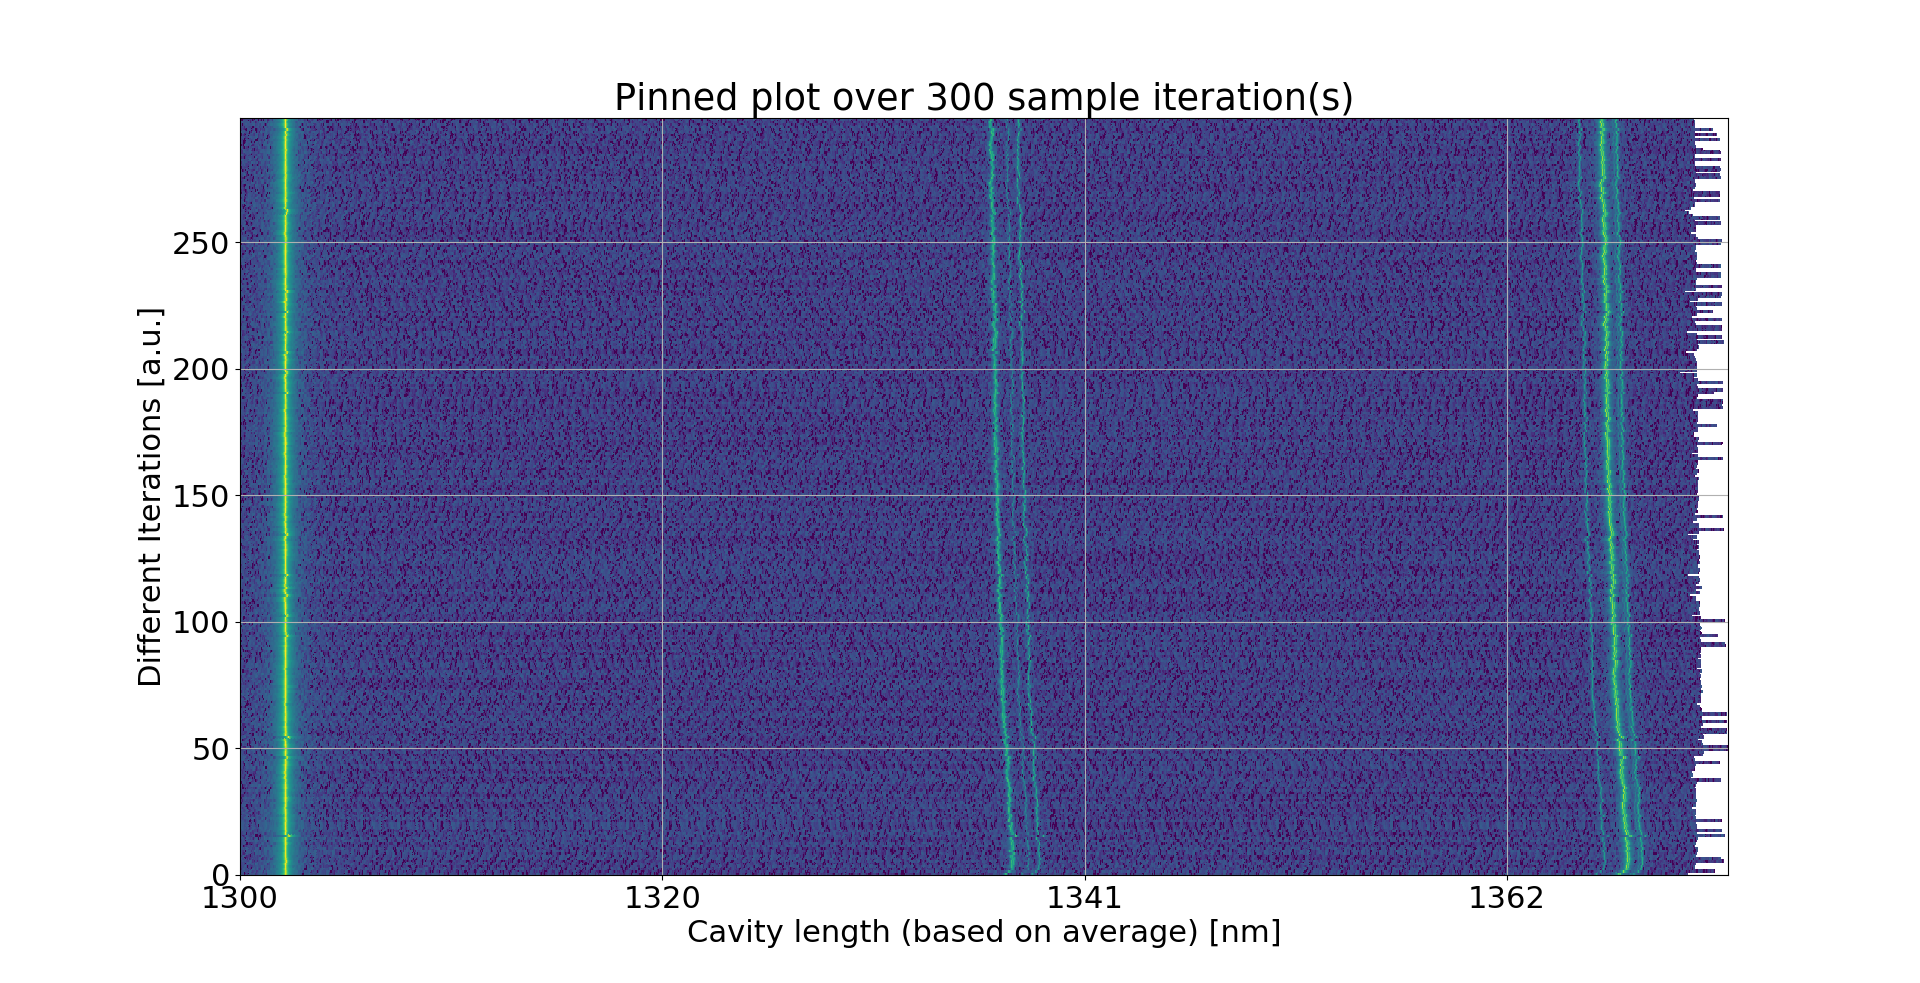
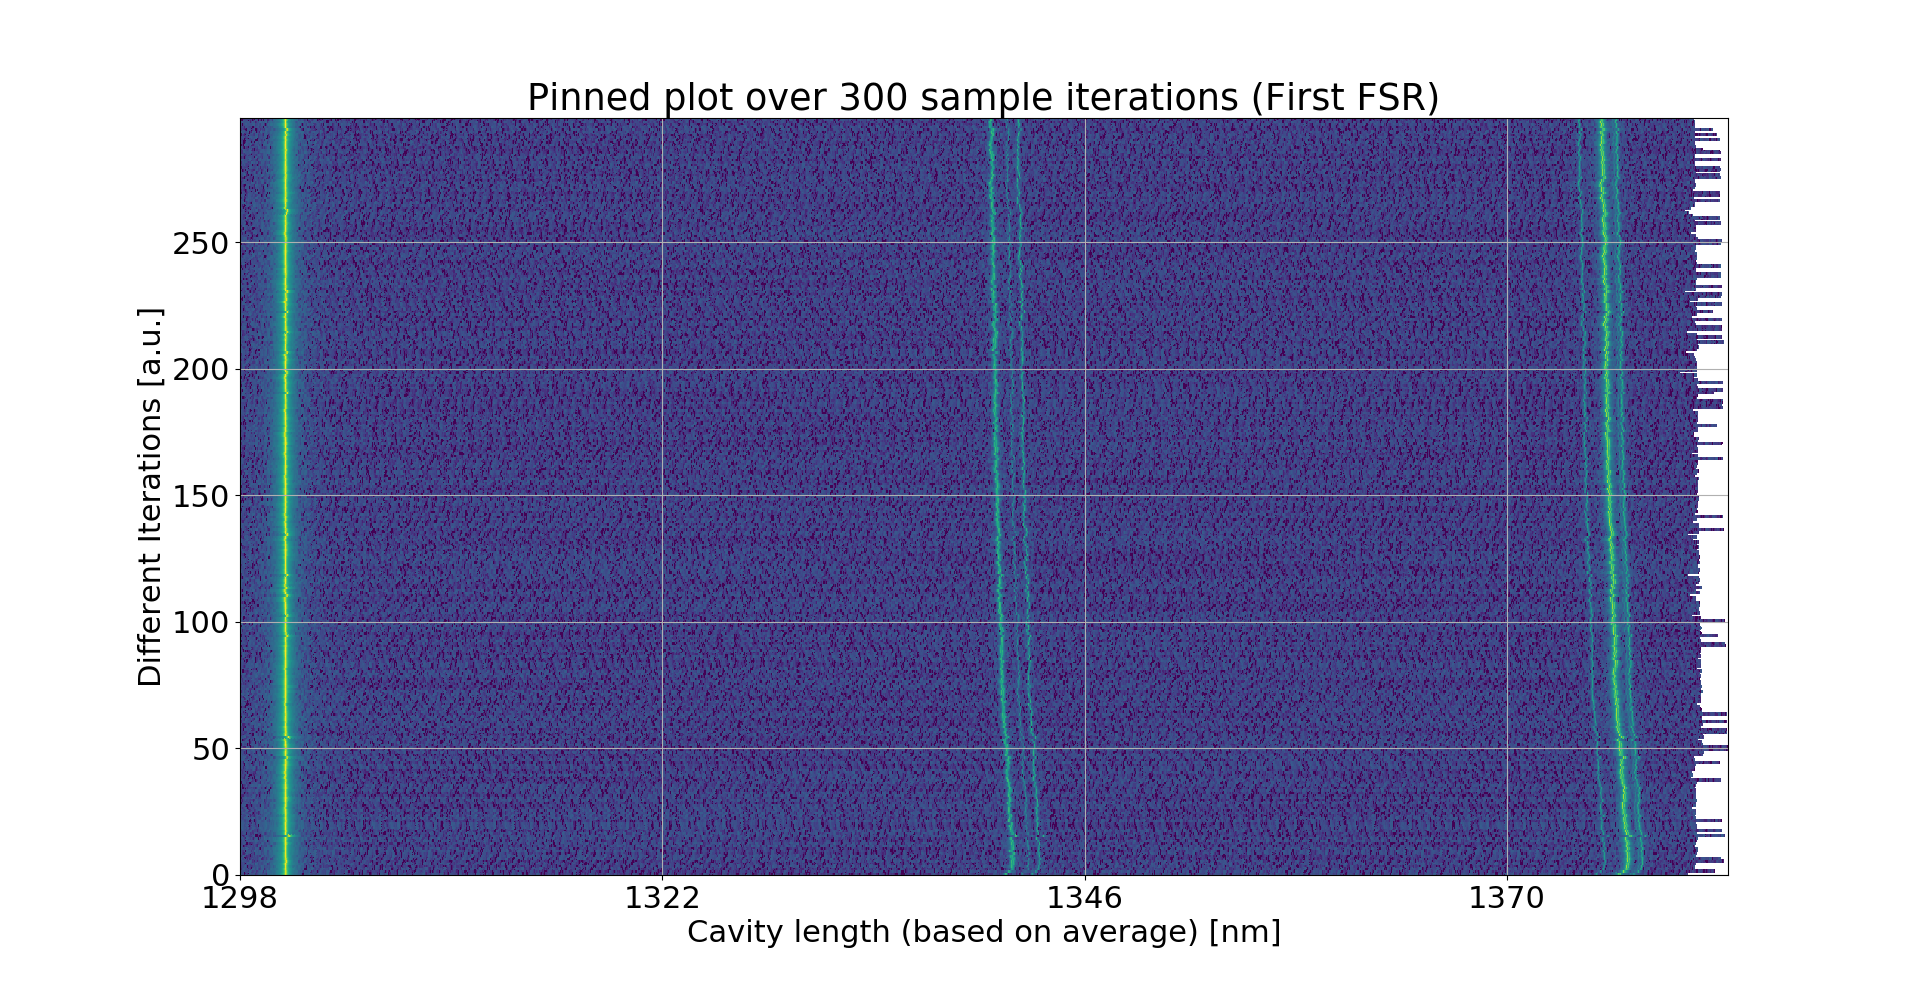
Updated top view color plot Added side view color plot Updated peak alignment

Changed region(s): [[0.2812, 0.061, 0.75, 0.1221], [0.7812, 0.885, 0.8125, 0.9156], [0.125, 0.885, 0.1562, 0.9156]]

diff --git a/src/plot_iteration_mode_color.py b/src/plot_iteration_mode_color.py
@@ -18,8 +18,15 @@ def pad_to_dense(nested_array: List[np.ndarray]) -> Tuple[np.ndarray, Tuple[int,
     return result, (max_width, len(result))
 
 
-def pad_to_pinned(nested_array: List[np.ndarray], slice_array: List[Tuple[int, int]], pin_array: List[int]) -> Tuple[np.ndarray, Tuple[int, int]]:
+def pad_to_pinned(nested_array: List[np.ndarray], dictionary: Dict[Tuple[int, int, int], Tuple[List[float], List[int]]], key: Tuple[int, int, int]) -> Tuple[np.ndarray, Tuple[int, int]]:
     """Returns padded array and shape"""
+    value_array = np.asarray(dictionary[key][0])  # List[float]
+    data_array = np.asarray(dictionary[key][1])  # List[int]
+    min_data_offset = np.min(data_array)
+    pre_skip = min_data_offset - data_array
+    # Align front of arrays
+    # nested_array = [_array[pre_skip[i]:] for i, _array in enumerate(nested_array)]
+
     return pad_to_dense(nested_array=nested_array)
 
 
@@ -29,7 +36,7 @@ def pad_slice(original: Tuple[int, int], additional: Tuple[int, int]) -> Tuple[i
 
 
 def store_peak_data(dictionary: Dict[Tuple[int, int, int], Tuple[List[float], List[int]]], cluster_array: List[LabeledPeakCluster], data_class: SyncMeasData) -> Dict[Tuple[int, int, int], Tuple[List[float], List[int]]]:
-    """Returns dictionary in format: Dict[Tuple[long, trans, index], Tuple[List[pos_value], List[pos_index]]"""
+    """Returns dictionary in format: Dict[Tuple[long, trans, index], Tuple[List[pos_value], List[pos_index]]]"""
     for cluster in cluster_array:
         for k, peak in enumerate(cluster):
             key = (cluster.get_longitudinal_mode_id, cluster.get_transverse_mode_id, k)
@@ -41,20 +48,108 @@ def store_peak_data(dictionary: Dict[Tuple[int, int, int], Tuple[List[float], Li
     return dictionary
 
 
-def plot_pinned_focus(collection_iterator: Iterable[LabeledPeakCollection], pin: Tuple[int, int], focus: List[Tuple[int, int]]):  #  -> plt.axes
+def plot_pinned_focus_side(collection_iterator: Iterable[LabeledPeakCollection], pin: Tuple[int, int]):
+    """Create side-view plot which pins single modes"""
+
+    # Prepare parameters
+    iter_count = 0
+    trans_array = []
+    total_pin_peak_index = []
+    peak_dict = {}  # Dict[Tuple(long, trans, index), Tuple[List[pos_value], List[pos_index]]
+    data_class_array = []
+    total_value_slice_array = []
+    total_data_slice_array = []
+    for i, collection in tqdm(enumerate(collection_iterator), desc=f'Process collections'):
+        iter_count = i + 1  # Temp
+        data_class = collection._get_data_class  # Access SyncMeasData class corresponding to peak data
+        data_class_array.append(data_class)
+        # Pin value
+        pin_cluster_array, pin_value_slice = collection.get_mode_sequence(long_mode=pin[0], trans_mode=pin[1])
+        # Store peak data
+        peak_dict = store_peak_data(dictionary=peak_dict, cluster_array=pin_cluster_array, data_class=data_class)
+        # Value to data slice
+        total_value_slice_array.append(pin_value_slice)
+        total_data_slice = get_value_to_data_slice(data_class=data_class, value_slice=pin_value_slice)
+        total_data_slice_array.append(total_data_slice)  # Store data slice
+        # Define focus peak index offset
+        first_peak_offset = peak_dict[(pin[0], pin[1], 0)][1][-1] - total_data_slice[0]
+        total_pin_peak_index.append(first_peak_offset)
+        # Store transmission data
+        x_array, y_array = np.asarray(collection.get_measurement_data_slice(union_slice=total_data_slice))
+        trans_array.append(y_array)
+
+    # Find data class corresponding to average length
+    value_slice_length_array = [value_slice[1] - value_slice[0] for value_slice in total_value_slice_array]
+    sorted_data_class_array = [data for _, data in sorted(zip(value_slice_length_array, data_class_array), key=lambda pair: pair[0])]  # rearange
+    data_class_index = find_nearest_index(array=value_slice_length_array, value=np.max(value_slice_length_array))
+    lead_data_class = sorted_data_class_array[data_class_index]
+
+    # Clear pin shift
+    total_pin_peak_index = np.asarray(total_pin_peak_index)
+    pre_skip = total_pin_peak_index - np.min(total_pin_peak_index)
+    # Align front of arrays
+    trans_array = [_array[pre_skip[i]:] for i, _array in enumerate(trans_array)]
+    min_index = trans_array.index(min(trans_array, key=len))
+    lead_index = trans_array.index(max(trans_array, key=len))
+    mid_len_diff = int((len(trans_array[lead_index]) - len(trans_array[min_index])) / 2)
+    index_offset = total_data_slice_array[lead_index][0]  # + pre_skip[lead_index]
+
+    # Format data
+    trans_array, array_shape = pad_to_dense(nested_array=trans_array)
+    # Plot measurement data
+    fig, ax = plt.subplots()
+    for i, meas_array in enumerate(trans_array):
+        color = 'b'
+        if i == len(trans_array) - 1:
+            color = 'darkorange'
+        ax.plot(meas_array, color=color)
+    # Plot mean and std peak locations
+    for i in range(10):
+        key = (pin[0], pin[1], i)
+        if key in peak_dict:
+            if len(peak_dict[key][0]) < 0.8 * iter_count:
+                continue
+            avg_pos_value = np.mean(peak_dict[key][0])  # Sum / Count [nm]
+            std_pos_value = np.std(peak_dict[key][0])
+            mean = round((avg_pos_value), 2)  # / (SAMPLE_WAVELENGTH / 2), 3)
+            std = round((std_pos_value), 2)  # / (SAMPLE_WAVELENGTH / 2), 3)
+
+            avg_pos_data = np.mean([peak_index - pre_skip[i] - total_data_slice_array[i][0] for i, peak_index in enumerate(peak_dict[key][1])])
+            print(key, avg_pos_value)
+
+            ax.axvline(x=avg_pos_data, color='r', ls='--', label=r'$\mu=$' + f' {mean}' + r', $\sigma=$ ' + f'{std} [nm]')
+        else:
+            break  # No higher index peaks available
+
+    # Set plot layout
+    locs, labels = plt.xticks()
+    xticks = [int(lead_data_class.x_boundless_data[int(index_offset + index)]) for index in locs[0:-1]]
+    plt.xticks(locs[0:-1], xticks)
+    font_size = 22
+    plt.title(f'Focus mode (q={pin[0]}, m+n={pin[1]}, {iter_count} iterations)')
+    plt.ylabel(f'Transmission [a.u.]', fontsize=font_size)
+    #  with {round(std_value_slice[0], 2)}, {round(std_value_slice[1], 2)} ' + r'$\sigma$' + '
+    plt.xlabel(f'Cavity length (based on average) [nm]', fontsize=font_size)
+    plt.yscale('log')
+    plt.grid(True)
+    plt.legend()
+
+
+def plot_pinned_focus_top(collection_iterator: Iterable[LabeledPeakCollection], pin: Tuple[int, int], focus: List[Tuple[int, int]]):  #  -> plt.axes
     """Create color plot which pins on single mode and displays one or more reference modes"""
 
     # Prepare parameters
     iter_count = 0
     largest_array_len = 0
     lead_data_class = None
-    peak_dict = {}  # Dict[Tuple(long, trans, index), Tuple(count, position sum)]
+    peak_dict = {}  # Dict[Tuple(long, trans, index), Tuple[List[pos_value], List[pos_index]]
     total_value_slice_array = []
     total_data_slice_array = []
     trans_array = []
     value_focus_array = []
     data_focus_array = []
     data_class_array = []
+    total_pin_peak_index = []
     for i, collection in tqdm(enumerate(collection_iterator), desc=f'Process collections'):
         iter_count = i + 1  # Temp
         data_class = collection._get_data_class  # Access SyncMeasData class corresponding to peak data
@@ -87,6 +182,9 @@ def plot_pinned_focus(collection_iterator: Iterable[LabeledPeakCollection], pin:
             total_value_slice = pad_slice(original=total_value_slice, additional=value_bound)
         # Value to data slice
         total_data_slice = get_value_to_data_slice(data_class=data_class, value_slice=total_value_slice)
+        # Define focus peak index offset
+        first_peak_offset = peak_dict[(pin[0], pin[1], 0)][1][-1] - total_data_slice[0]
+        total_pin_peak_index.append(first_peak_offset)
 
         total_value_slice_array.append(total_value_slice)  # Store value slice
         total_data_slice_array.append(total_data_slice)  # Store data slice
@@ -96,16 +194,24 @@ def plot_pinned_focus(collection_iterator: Iterable[LabeledPeakCollection], pin:
         data_class_array.append(data_class)
 
     # Find data class corresponding to average length
-
     value_slice_length_array = [value_slice[1] - value_slice[0] for value_slice in total_value_slice_array]
     sorted_data_class_array = [data for _, data in sorted(zip(value_slice_length_array, data_class_array), key=lambda pair: pair[0])]  # rearange
     data_class_index = find_nearest_index(array=value_slice_length_array, value=np.max(value_slice_length_array))
     lead_data_class = sorted_data_class_array[data_class_index]
 
+    # Clear pin shift
+    total_pin_peak_index = np.asarray(total_pin_peak_index)
+    min_data_offset = np.min(total_pin_peak_index)
+    pre_skip = total_pin_peak_index - min_data_offset
+    # Align front of arrays
+    trans_array = [_array[pre_skip[i]:] for i, _array in enumerate(trans_array)]
+
     # Format data
+    min_index = trans_array.index(min(trans_array, key=len))
     lead_index = trans_array.index(max(trans_array, key=len))
-    index_offset = total_data_slice_array[lead_index][0]
-    trans_array, array_shape = pad_to_dense(nested_array=trans_array)
+    mid_len_diff = int((len(trans_array[lead_index]) - len(trans_array[min_index]))/2)
+    index_offset = total_data_slice_array[lead_index][0]  # + pre_skip[lead_index]
+    trans_array, array_shape = pad_to_dense(nested_array=trans_array)  # , dictionary=peak_dict, key=(pin[0], pin[1], 0))
     trans_array = np.transpose(trans_array)  # Transpose
 
     # Define font
@@ -117,13 +223,9 @@ def plot_pinned_focus(collection_iterator: Iterable[LabeledPeakCollection], pin:
     plt.pcolormesh(x, y, trans_array, norm=colors.LogNorm())
 
     locs, labels = plt.xticks()
-    # xticks = []
-    # for index in locs[0:-1]:
-    #     xticks.append(round(np.mean([data_class.x_boundless_data[int(index_offset + index)] for data_class in data_class_array]), 2))
     xticks = [int(lead_data_class.x_boundless_data[int(index_offset + index)]) for index in locs[0:-1]]
-    # xticks = np.linspace(start=avg_value_slice[0], stop=avg_value_slice[1], num=len(locs), dtype=int)
     plt.xticks(locs[0:-1], xticks)
-    plt.title(f'Pinned plot over {iter_count} sample iterations (First FSR)')
+    plt.title(f'Pinned plot over {iter_count} sample iterations (Second FSR)')
     plt.ylabel(f'Different Iterations [a.u.]', fontsize=font_size)
     #  with {round(std_value_slice[0], 2)}, {round(std_value_slice[1], 2)} ' + r'$\sigma$' + '
     plt.xlabel(f'Cavity length (based on average) [nm]', fontsize=font_size)
@@ -133,7 +235,7 @@ def plot_pinned_focus(collection_iterator: Iterable[LabeledPeakCollection], pin:
         data_bound = get_value_to_data_slice(data_class=lead_data_class, value_slice=value_bound)  # Sample to index
         # data_bound = data_focus_array[i]
         fig, ax = plt.subplots()
-        array_bound = (data_bound[0] - index_offset, data_bound[1] - index_offset)
+        array_bound = (max(data_bound[0] - index_offset, 0), (data_bound[1] - index_offset))
 
         focus_trans_array = trans_array[array_bound[0]:array_bound[1]]  # After transpose
         focus_array_shape = focus_trans_array.shape
@@ -148,15 +250,18 @@ def plot_pinned_focus(collection_iterator: Iterable[LabeledPeakCollection], pin:
         for j in range(10):
             key = (long_mode, trans_mode, j)
             if key in peak_dict:
+                if len(peak_dict[key][0]) < 0.5 * iter_count:
+                    continue
                 avg_pos_value = np.mean(peak_dict[key][0])  # Sum / Count [nm]
                 std_pos_value = np.std(peak_dict[key][0])
                 mean = round((avg_pos_value - rev_pos_value)/(SAMPLE_WAVELENGTH/2), 3)
                 std = round((std_pos_value)/(SAMPLE_WAVELENGTH/2), 3)
 
                 # avg_pos_data = int(np.mean([find_nearest_index(array=data_class.x_boundless_data, value=peak_dict[key][0][i]) for i, data_class in enumerate(data_class_array)])) - data_bound[0]
-                avg_pos_data = int(np.mean([find_nearest_index(array=lead_data_class.x_boundless_data, value=peak) for peak in peak_dict[key][0]])) - data_bound[0]
+                # avg_pos_data = int(np.mean([find_nearest_index(array=lead_data_class.x_boundless_data, value=peak) for peak in peak_dict[key][0]])) - data_bound[0]
                 # avg_pos_data = find_nearest_index(array=lead_data_class.x_boundless_data, value=avg_pos_value) - data_bound[0]
                 # avg_pos_data = int(np.mean(peak_dict[key][1])) - data_bound[0]
+                avg_pos_data = np.mean([peak_index - pre_skip[k] - data_bound[0] for k, peak_index in enumerate(peak_dict[key][1])])
                 print(key, avg_pos_value)
 
                 ax.axvline(x=avg_pos_data, color='r', ls='--', label=f'{mean}' + r' $\pm$ ' + f'{std}' + r' [$\lambda / 2$]')
@@ -164,7 +269,9 @@ def plot_pinned_focus(collection_iterator: Iterable[LabeledPeakCollection], pin:
                 break  # No higher index peaks available
 
         locs, labels = plt.xticks()
-        plt.xticks(locs[0:-1], np.linspace(start=value_bound[0], stop=value_bound[1], num=len(locs), dtype=int))
+        xticks = [int(lead_data_class.x_boundless_data[int(index_offset + index)]) for index in locs[0:-1]]
+        plt.xticks(locs[0:-1], xticks)
+        # plt.xticks(locs[0:-1], np.linspace(start=value_bound[0], stop=value_bound[1], num=len(locs), dtype=int))
         plt.title(f'Focus mode (q={focus[i][0]}, m+n={focus[i][1]}). Transmission relative to fundamental mode')
         plt.ylabel(f'Different Iterations [a.u.]', fontsize=font_size)
         plt.xlabel(f'Cavity length [nm]', fontsize=font_size)
@@ -197,7 +304,10 @@ if __name__ == '__main__':
             except FileNotFoundError:
                 break
 
-    iter_count = 20
-    plot_pinned_focus(collection_iterator=get_collections(iter_count=iter_count), pin=(0, 0), focus=[(0, 1), (0, 2)])
+    iter_count = 30
+    plot_pinned_focus_top(collection_iterator=get_collections(iter_count=iter_count), pin=(1, 0), focus=[(1, 2)])
+    # plot_pinned_focus_top(collection_iterator=get_collections(iter_count=iter_count), pin=(0, 0), focus=[(1, 2)])
+
+    # plot_pinned_focus_side(collection_iterator=get_collections(iter_count=iter_count), pin=(0, 3))
 
     plt.show()
